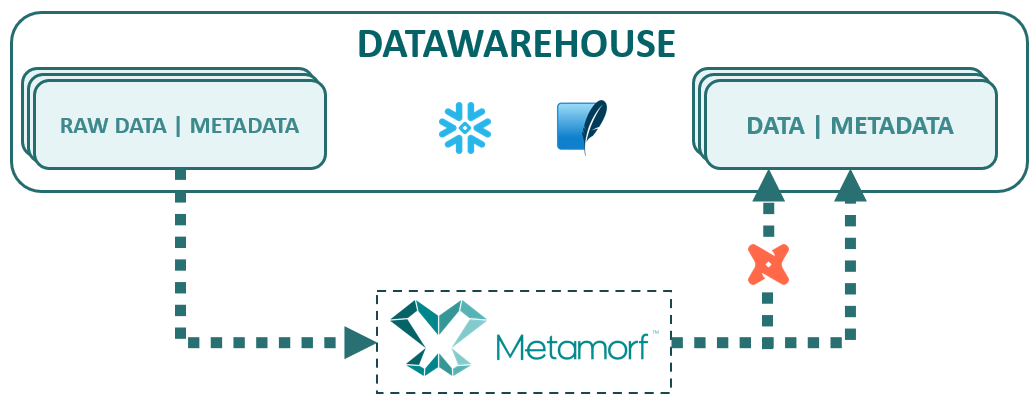
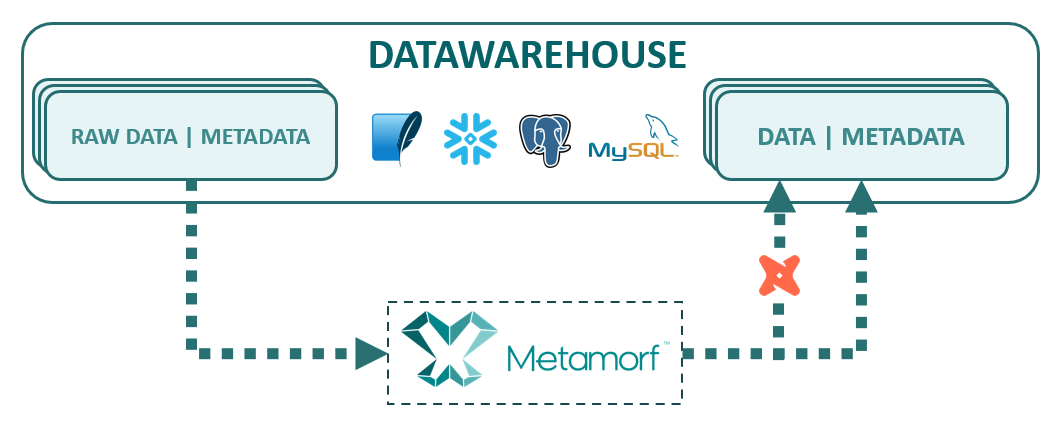
Add DV Satellites delete duplicates

Changed region(s): [[0.0, 0.0299, 1.0, 0.9851], [0.1546, 0.4179, 0.2164, 0.4478]]

diff --git a/metamorf/engines/engine_process.py b/metamorf/engines/engine_process.py
@@ -712,7 +712,7 @@ class EngineProcess(Engine):
 
         ########################### Create Entity STG TMP ###########################
         md5_function = self.get_hash_key_from_cod_entity_target_and_num_branch(sat_cod_entity_target, sat[3])
-
+        hash_md5_function = md5_function
         new_dataset_mapping = [sat_cod_entity_source, md5_function, prefix_et + sat_entity_tmp,
                                hash_name,
                                hash_for_metadata[0], ordinal_position, hash_for_metadata[1], hash_for_metadata[2],
@@ -758,8 +758,10 @@ class EngineProcess(Engine):
                 self.metadata_actual.add_entry_dataset_mappings([new_dataset_mapping])
                 ordinal_position += 1
 
+        all_dck_concatenate = ''
         if has_dck:
             for dck in dependent_child_key:
+                all_dck_concatenate += ", " + dck.column_name_target
                 new_dataset_mapping = [sat_cod_entity_source, dck.column_name_source, prefix_et + sat_entity_tmp,
                                        dck.column_name_target,
                                        dck.column_type_target, ordinal_position, dck.column_length,
@@ -794,6 +796,21 @@ class EngineProcess(Engine):
                                prefix_et + sat_entity_tmp, 'HASHDIFF',
                                hash_for_metadata[0], ordinal_position, hash_for_metadata[1], hash_for_metadata[2],
                                sat_num_branch, KEY_TYPE_HASHDIFF, 1, self.owner]
+        self.metadata_actual.add_entry_dataset_mappings([new_dataset_mapping])
+        ordinal_position += 1
+
+        order_by = ''
+        if has_ad:
+            order_by = ' order by ' + applied_date.column_name_source + ' desc'
+        if has_dck:
+            hash_md5_function += all_dck_concatenate
+        new_dataset_mapping = [sat_cod_entity_source,
+                               'ROW_NUMBER() over (partition by ' + hash_md5_function + order_by + ')',
+                               prefix_et + sat_entity_tmp, 'RN',
+                               integer_for_metadata[0], ordinal_position, integer_for_metadata[1],
+                               integer_for_metadata[2],
+                               sat_num_branch, KEY_TYPE_NULL, 1, self.owner]
+        ordinal_position += 1
         self.metadata_actual.add_entry_dataset_mappings([new_dataset_mapping])
 
         ########################### Create Entity STG LAST IMAGE 1 ###########################
@@ -958,6 +975,9 @@ class EngineProcess(Engine):
                                     prefix_et + sat_entity_actual_image_2,
                                     dck.column_name_target, "MASTER JOIN", self.owner]
                 self.metadata_actual.add_entry_dataset_relationship([new_relationship])
+
+        new_filter = [prefix_et + sat_entity_join, 'RN = 1', sat_num_branch , self.owner]
+        self.metadata_actual.add_entry_filters([new_filter])
 
         ########################### Create Entity SAT ###########################
         ordinal_position = 1
@@ -3936,6 +3956,7 @@ class EngineProcess(Engine):
 
         ########################### Create Entity STG TMP ###########################
         md5_function = self.get_hash_key_from_cod_entity_target_and_num_branch(sat_cod_entity_target, sat[3])
+        hash_md5_function = md5_function
         new_dataset_mapping = [sat_cod_entity_source, md5_function, prefix_et + sat_entity_tmp,
                                hash_name,
                                hash_for_metadata[0], ordinal_position, hash_for_metadata[1], hash_for_metadata[2],
@@ -3981,8 +4002,10 @@ class EngineProcess(Engine):
                 self.metadata_actual.add_entry_dataset_mappings([new_dataset_mapping])
                 ordinal_position += 1
 
+        all_dck_concatenate = ''
         if has_dck:
             for dck in dependent_child_key:
+                all_dck_concatenate += ", " + dck.column_name_target
                 new_dataset_mapping = [sat_cod_entity_source, dck.column_name_source, prefix_et + sat_entity_tmp,
                                        dck.column_name_target,
                                        dck.column_type_target, ordinal_position, dck.column_length,
@@ -4017,6 +4040,21 @@ class EngineProcess(Engine):
                                prefix_et + sat_entity_tmp, 'HASHDIFF',
                                hash_for_metadata[0], ordinal_position, hash_for_metadata[1], hash_for_metadata[2],
                                sat_num_branch, KEY_TYPE_HASHDIFF, 1, self.owner]
+        self.metadata_actual.add_entry_dataset_mappings([new_dataset_mapping])
+        ordinal_position += 1
+
+        order_by = ''
+        if has_ad:
+            order_by = ' order by ' + applied_date.column_name_source + ' desc'
+        if has_dck:
+            hash_md5_function += all_dck_concatenate
+        new_dataset_mapping = [sat_cod_entity_source,
+                               'ROW_NUMBER() over (partition by ' + hash_md5_function + order_by + ' )',
+                               prefix_et + sat_entity_tmp, 'RN',
+                               integer_for_metadata[0], ordinal_position, integer_for_metadata[1],
+                               integer_for_metadata[2],
+                               sat_num_branch, KEY_TYPE_NULL, 1, self.owner]
+        ordinal_position += 1
         self.metadata_actual.add_entry_dataset_mappings([new_dataset_mapping])
 
         ########################### Create Entity STG LAST IMAGE 1 ###########################
@@ -4184,6 +4222,9 @@ class EngineProcess(Engine):
                                     prefix_et + sat_entity_actual_image_2,
                                     dck.column_name_target, "MASTER JOIN", self.owner]
                 self.metadata_actual.add_entry_dataset_relationship([new_relationship])
+
+        new_filter = [prefix_et + sat_entity_join, 'RN = 1', sat_num_branch, self.owner]
+        self.metadata_actual.add_entry_filters([new_filter])
 
         ########################### Create Entity SAT ###########################
         ordinal_position = 1

diff --git a/metamorf/constants.py b/metamorf/constants.py
@@ -1,7 +1,7 @@
 import os
 
 # METAMORF PROPERTIES
-VERSION = "0.4.3.1"
+VERSION = "0.4.4.1"
 
 # Constants for QUERY TYPES
 QUERY_TYPE_INSERT = 0

diff --git a/README.md b/README.md
@@ -30,6 +30,8 @@ datawarehouse in the past at any time and know how the data was processed.
 Actually Metamorf supports the following databases:
 - Snowflake
 - SQLite
+- PostgreSQL
+- MySQL
 
 ## How to Start
 To install Metamorf, you need Python 3.10, and you can install it using pip. 
@@ -44,7 +46,7 @@ For a quick start, create a directory where you want to locate all the configura
 
     metamorf init
 
-You have initialized your environment to configure Metamorf. The basic configuration is through
+At this point, you have initialized your environment to configure Metamorf. The default configuration is through
 a SQLite database.
   
 Metamorf can be deployed where the configuration file says. If SQLite is selected (as default)
@@ -67,7 +69,7 @@ If you want to process these metadata, try the command:
 Now all the metadata is processed and the main tables of Metamorf are populated.
 To see if all works, you can just type any of the features that Metamorf offers:
 
-If you want to run the processes indicated on the metadata, you can just type:
+If you want to run the processes indicated on the metadata to transform all the fake data, you can just type:
 
     metadata run
 
@@ -78,7 +80,7 @@ Probably you just want the SQL Files to execute from other platforms, type then:
 The results are located on the output folder on your repository.  
 
 The configuration file permits you to configure Metamorf to adapt it to your needs.
-For example, one interesting option could be to generate all you datasets on *dbt* format.
+For example, one interesting option could be to generate all your datasets on *dbt* format.
 To achieve it, just change your *configuration.yml* file, **output** option, **type** value to **dbt**.
 
       output:
@@ -92,7 +94,7 @@ And now you have all the necessary files for your dbt project.
 
 This tutorial is just a small demonstration about metamorf and its potential.
 
-*Note: First versions of Metamorf were only tested on Windows OS.*
+*Note: Metamorf works on Windows OS and Linux (tested on Ubuntu)*
 
 ## Commands
 
@@ -129,25 +131,32 @@ The user can specify the target databases type (data and metadata) with the argu
 - **delete**: It deletes all the metadata from the metadata entry.
 - **backup**: It downloads a backup from all the system.
 - **restore**: It uploads all the backup to the system.
+- **files**: Upload all the files indicated on the metadata.
+- **metadata**: Validates the Metadata Entry.
 
 <sup>1</sup> Actually Metamorf accepts the databases indicated on this [section](#databases)
 
+## New features
+
+- **Datavault** module to speed up the creation of a Datavault Model. New metadata entry was added.
+- File loader to upload csv files to the data database.
+- Added compatibility to PostgreSQL and MySQL for metadata and data databases.
+
+
 ## Roadmap
 
-- *[Under development]* Include Datavault 2.0 Module to simplify the metadata entry for this modelling.
-- *[Under development]* Include a metadata entry validator to avoid unexpected errors.
-- *[Near development]* Include File loader.
-- *[Near development]* Create a detailed documentation.
+- *[Under development]* Use case on Azure cloud.
+- *[Under development]* Improve the metadata entry validator to avoid unexpected errors.
+- *[Under development]* Create a detailed documentation.
 - *[Near development]* Include more materialization and more metadata transformation speeders.
 - *[Near development]* Include easier metadata entry system.
-- *[Near development]* Include some more databases as PostgreSQL and MySQL.
-- *[Future development]* Include more databases.
+- *[Near development]* Add an engine system to permits developpers add their own engines to speed up their own needs.
 - *[Future development]* Security Framework based on metadata for the datawarehouse
 
 ## Contact
 
 Creator: **Guillermo Aumatell Salom**  
-Email: **gaumatellsalom@gmail.com**
+Email: **guillermoaumatell@gmail.com**
 
 
-**Notice: Metamorf is in beta phase.**
+**Notice: Metamorf is in beta phase under development.**

diff --git a/API.md b/API.md
@@ -2,6 +2,8 @@
 
 ## Endpoints
 
+*[Under development]* These feature is under development and can have some bugs.
+
 - **/dataset/dataset_name**: Gives all the information from the dataset_name given.
 - **/node/node_name**: Gives all the information from the node given.
 - **/lineage/dataset_name/column_name**: Gives all the lineage from the dataset_name and the column_name given.
